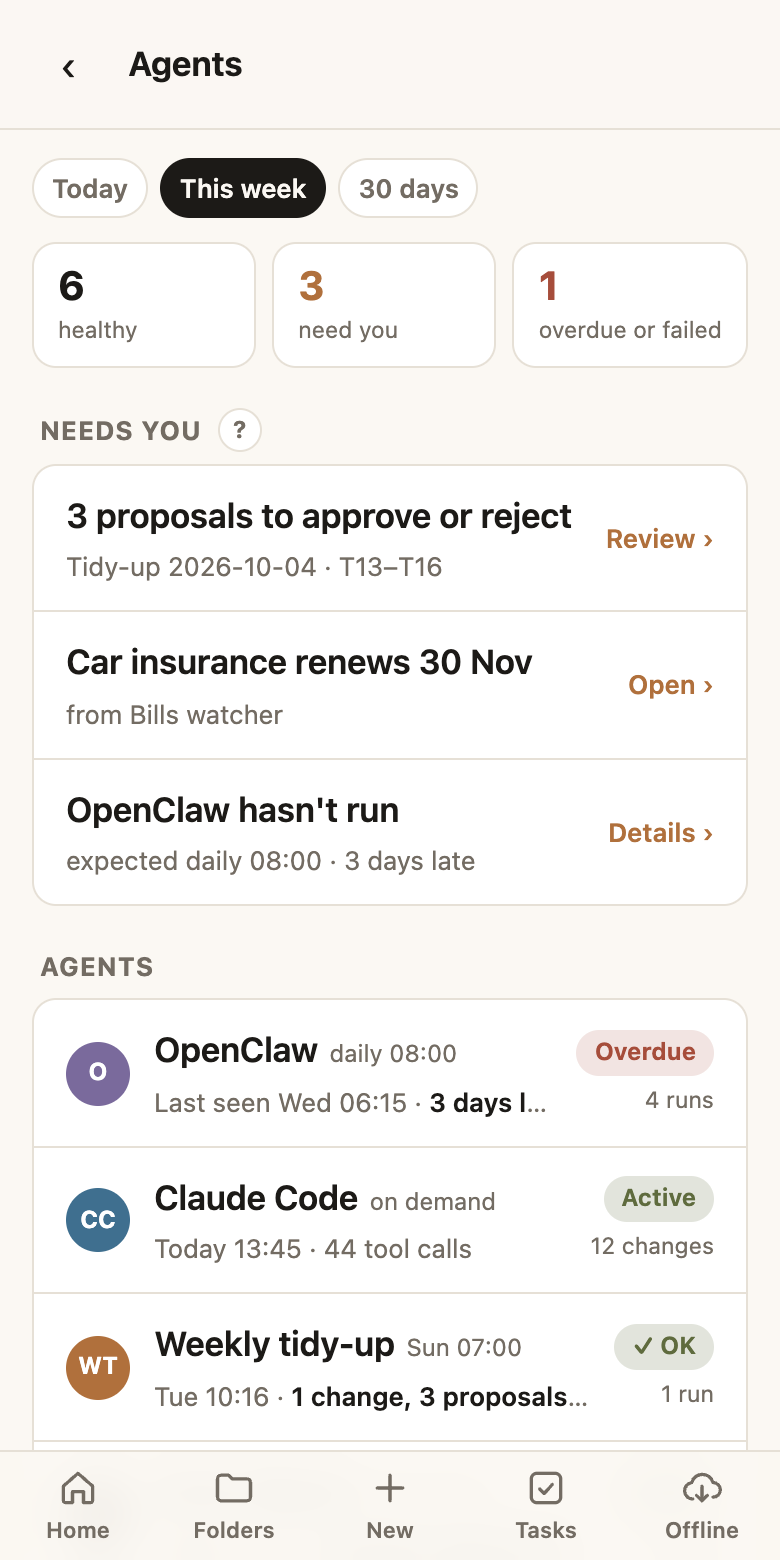
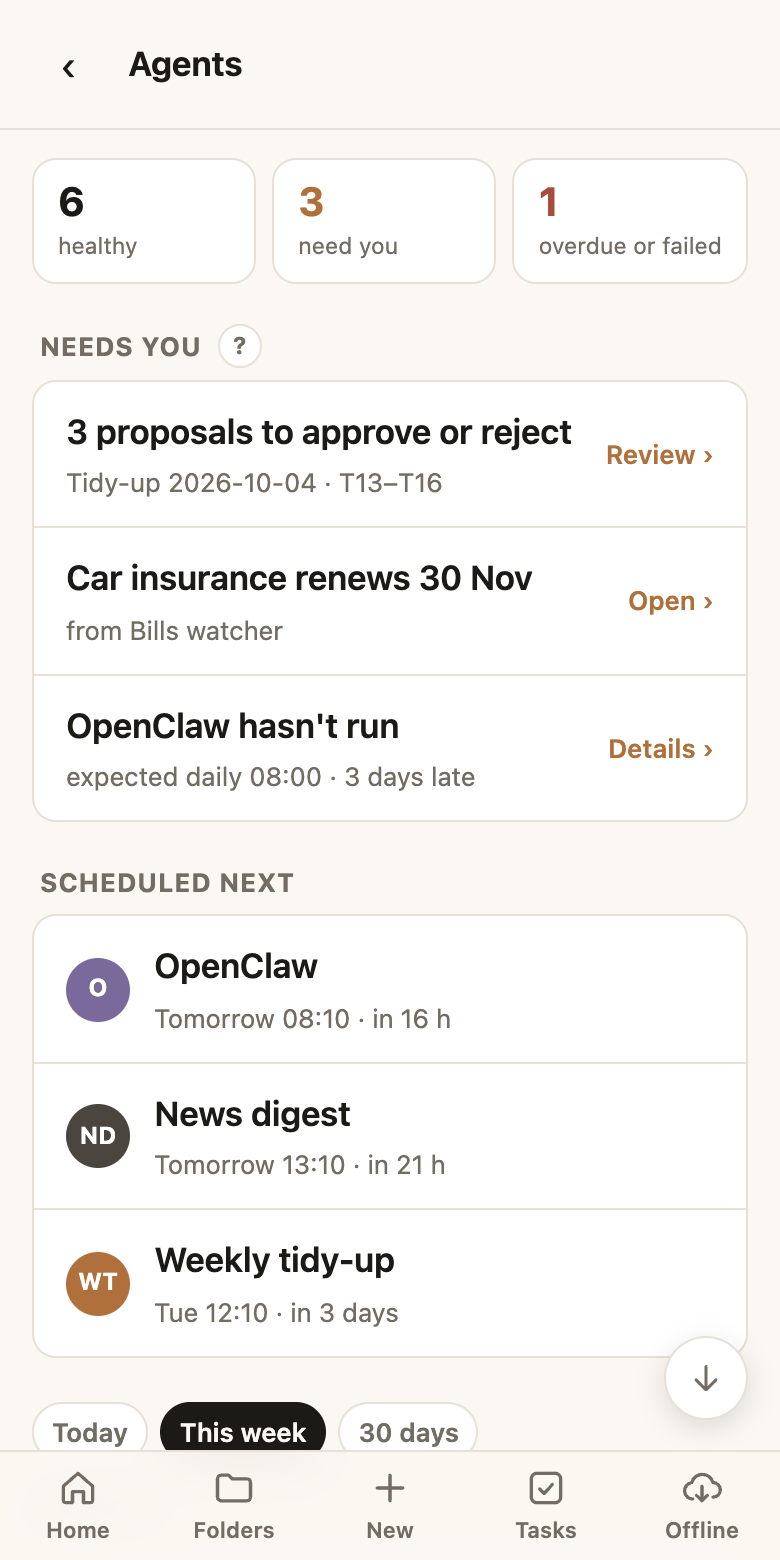
Mission control: Scheduled next, and the range buttons moved
Describes the new Scheduled next card and that the range buttons now sit above the agents
list; Agents screenshots retaken.

diff --git a/docs/features/mission-control.md b/docs/features/mission-control.md
@@ -192,9 +192,13 @@ Newest first, each with one place to go. Nothing is dismissed by hand: an item g
 - **What an agent asked you to look at**, from its last report. Replaced by its next run.
 - **Rollbacks** the [safety net](safety.md) caught in the last week. Ticking or unticking a task in the app is never counted as one.
 
+### Scheduled next
+
+Below **Needs you**, the three scheduled agents that are due soonest, each with its next time: *Tomorrow 07:00 · in 14 h*. Times are shown in your device's time zone. Agents that run on demand, or are switched off, aren't listed.
+
 ### Today, this week, 30 days
 
-The buttons at the top choose how far back to look. They change two things:
+The buttons above the agents list choose how far back to look. They change two things:
 
 - **The timeline** at the bottom: every finished run, and every change an agent made outside a recorded run. Its heading says how many there are, such as *This week · 239 events*. The newest 60 are shown; **Show 60 more** brings the next ones, up to the newest 300.
 - **The small count under each agent's state**: its runs in that time, or its changes if it made no recorded run.
